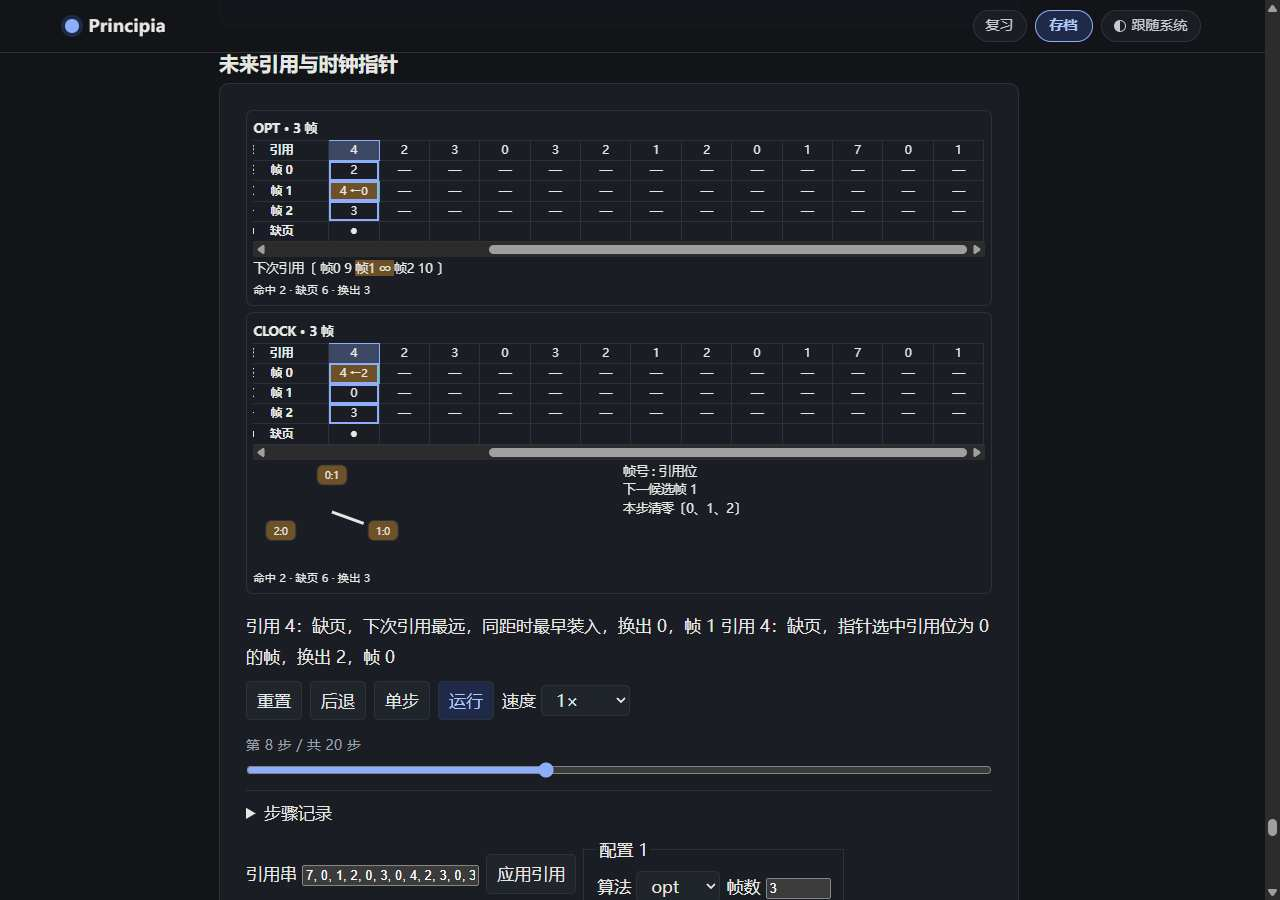
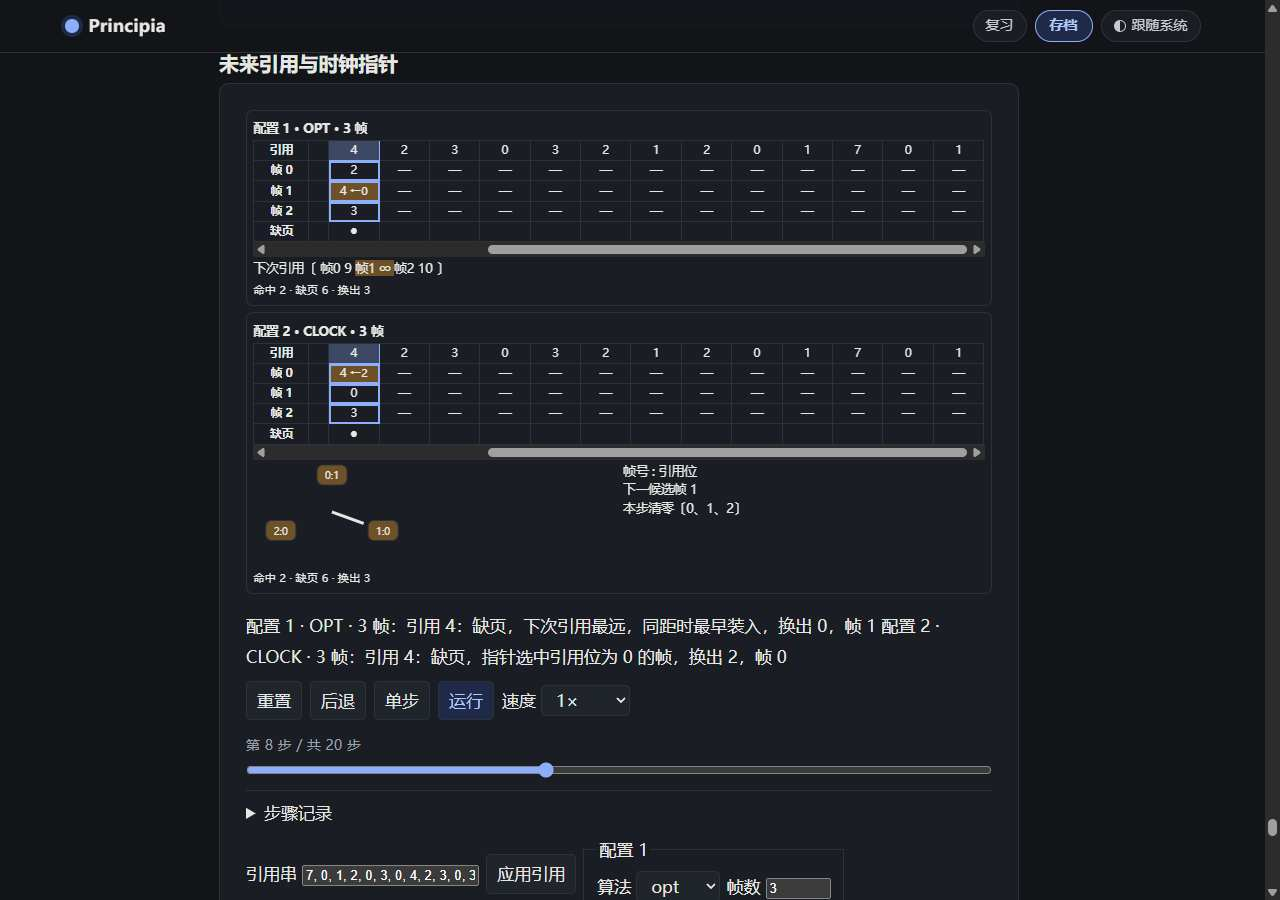
fix(sim): 修正 C7 线程阻塞行、配置说明与时间轴显示

diff --git a/packages/sim/src/Scheduler.tsx b/packages/sim/src/Scheduler.tsx
@@ -7,18 +7,23 @@ import { parseJobs, policies, schedulerMachine, schedulerNames, type Job, type S
 type Params = ScheduleParams & Controls;
 function SchedulePanel({frame: f, jobs, run, horizon}: {frame: ScheduleFrame; jobs: Job[]; run: ScheduleRun; horizon:number}) {
   const cpu = f.ticks.at(-1)?.cpu, levels = run.algorithm === 'mlfq' ? run.quanta ?? [2,4,8] : [0];
-  return <section className="os-panel"><h4>{run.algorithm.toUpperCase()} · t = {f.time}</h4>
+  const currentTick = f.time - 1;
+  const sleeping = f.processes.flatMap((p,i)=>p.wake>=0?[i]:[]);
+  return <section className="os-panel"><h4>{f.title} · {currentTick < 0 ? '初态' : 't = ' + currentTick}</h4>
     <div className="os-schedule-layout"><ScrollBox className="os-axis" step={f.time} label="CPU 与作业的甘特图"><table className="os-timeline" style={{width:(3.5+2.7*horizon)+'rem'}}><colgroup><col style={{width:'3.5rem'}}/>{Array.from({length:horizon},(_,i)=><col key={i}/>)}</colgroup><tbody>
       {['时间','CPU',...jobs.map(j => j.name)].map((label, row) => <tr key={row}><th>{label}</th>{Array.from({length:horizon}, (_, t) => {
         const tick=f.ticks[t];
         if(!tick)return <td key={t}>{row===0?t:'　'}</td>;
-        const state = tick.states[row-2], current = t === f.time - 1;
+        const state = tick.states[row-2], current = t === currentTick;
         return <td key={t} aria-current={current ? 'step' : undefined} data-state={state}
           {...mark(current ? row === 1 || state === '运行' ? 'write' : 'read' : undefined)}>
           {row === 0 ? t : row === 1 ? jobs[tick.cpu]?.name ?? '　' : state}</td>;
       })}</tr>)}</tbody></table></ScrollBox>
-    <div><p>{levels.map((q, level) => <span key={level} {...mark(f.time?'read':undefined)}>{q ? ' L'+level+' (片 '+q+')' : '就绪'}〔{f.ready.filter(i => f.processes[i].level === level).map(i => jobs[i].name + (q ? ' '+f.processes[i].used+'/'+(run.allotments ?? levels)[level] : '')).join(' → ') || '空'}〕</span>)}
-     　I/O〔{f.processes.some(p=>p.wake>=0)?f.processes.map((p,i)=>p.wake>=0&&<span key={i} {...mark(i===cpu?'write':undefined)}> {jobs[i].name} → {p.wake} </span>):'空'}〕</p>
+    <div>{levels.map((q,level)=><p key={level}><span {...mark(f.time?'read':undefined)}>
+      {q?'L'+level+'（时间片 '+q+'）':'就绪'}〔{f.ready.filter(i=>f.processes[i].level===level).map(i=>
+        jobs[i].name+(q?' '+f.processes[i].used+'/'+(run.allotments??levels)[level]:'')).join(' → ')||'空'}〕
+    </span></p>)}
+    <p>I/O〔{sleeping.length?sleeping.map((i,k)=><span key={i} {...mark(i===cpu?'write':undefined)}>{k>0?'，':''}{jobs[i].name} → {f.processes[i].wake}</span>):'空'}〕</p>
     <ScrollBox step={f.time} label="作业指标" className="os-metrics"><table><thead><tr>{['作业','到达','计算','首次','完成','周转','等待','响应',...(run.algorithm==='mlfq'?['级 / 已用额度']:[])].map(k=><th key={k}>{k}</th>)}</tr></thead><tbody>
       {f.processes.map((p,i) => {const j=jobs[i], turn=p.finish-j.arrival;
         return <tr key={i} {...mark(i===cpu?'write':undefined)}>{[j.name,j.arrival,p.cpu,p.first,p.finish,p.finish<0?-1:turn,p.finish<0?-1:turn-p.cpu-p.io,p.first<0?-1:p.first-j.arrival,...(run.algorithm==='mlfq'?['L'+p.level+' / '+p.used]:[])].map((x,k)=><td key={k}>{x===-1?'—':x}</td>)}</tr>;

diff --git a/packages/sim/src/core/scheduler.ts b/packages/sim/src/core/scheduler.ts
@@ -43,12 +43,15 @@ interface Process {
 }
 export interface Tick { cpu: number; states: string[] }
 export interface ScheduleFrame {
-  text: string; time: number; ticks: Tick[]; ready: number[]; processes: Process[];
+  title: string; text: string; time: number; ticks: Tick[]; ready: number[]; processes: Process[];
   completed: number; switches: number; preemptions: number; idle: number;
   waiting: number; response: number; turnaround: number;
 }
-export function* schedule(jobs: Job[], config: ScheduleRun): Generator<ScheduleFrame, void> {
+export function* schedule(jobs: Job[], config: ScheduleRun, prefix = ''): Generator<ScheduleFrame, void> {
   const {algorithm, quantum = 4, quanta = [2, 4, 8], allotments = quanta, boost = 0} = config;
+  const detail = algorithm === 'priority' ? (config.preemptive ? '（抢占）' : '（非抢占）') :
+    algorithm === 'rr' ? '（时间片 ' + quantum + '）' : '';
+  const title = prefix + algorithm.toUpperCase() + detail;
   const mlfq = algorithm === 'mlfq';
   const processes = jobs.map(({bursts}): Process => ({
     part: 0, left: bursts[0], wake: -1, level: 0, used: 0, first: -1, finish: -1,
@@ -59,7 +62,7 @@ export function* schedule(jobs: Job[], config: ScheduleRun): Generator<ScheduleF
   let running = -1, last = -1, slice = 0, completed = 0, switches = 0, preemptions = 0, idle = 0;
   let waiting = 0, response = 0, turnaround = 0;
   function snapshot(text: string): ScheduleFrame {
-    return {text, time: ticks.length, ticks, ready: [...ready], processes: processes.map(p => ({...p})),
+    return {title, text: prefix ? title + '：' + text : text, time: ticks.length, ticks, ready: [...ready], processes: processes.map(p => ({...p})),
       completed, switches, preemptions, idle, waiting, response, turnaround};
   }
   function rank(i: number) {
@@ -89,7 +92,7 @@ export function* schedule(jobs: Job[], config: ScheduleRun): Generator<ScheduleF
       else if (mlfq && slice >= quanta[p.level] || algorithm === 'rr' && slice >= quantum) reason = '用满时间片';
       else if (ready.length && (mlfq || algorithm === 'srtf' || algorithm === 'priority' && config.preemptive)
         && rank(best()) < rank(running)) reason = '让给优先运行的作业';
-      if (reason) { notes.push(jobs[running].name + reason + '，回到队尾'); ready.push(running); running = -1; }
+      if (reason) { notes.push(jobs[running].name + ' ' + reason + '，回到队尾'); ready.push(running); running = -1; }
     }
     if (mlfq && boost && t > 0 && t % boost === 0) {
       ready.sort((a, b) => processes[a].level - processes[b].level);
@@ -135,7 +138,7 @@ export function* schedule(jobs: Job[], config: ScheduleRun): Generator<ScheduleF
   }
 }
 export const schedulerMachine = algorithmMachine(
-  (p: ScheduleParams) => p.runs.map(config => schedule(p.tasks, config)),
+  (p: ScheduleParams) => p.runs.map((config, i) => schedule(p.tasks, config, p.runs.length > 1 ? '配置 ' + (i + 1) + ' · ' : '')),
   f => ({completed: f.completed, switches: f.switches, preemptions: f.preemptions, idle: f.idle,
     turnaround: f.turnaround, waiting: f.waiting, response: f.response}),
 );

diff --git a/packages/sim/src/os.css b/packages/sim/src/os.css
@@ -1,7 +1,7 @@
 .os-stack {display:grid;gap:.4rem;width:100%;min-width:0;color:var(--text)}
 .os-panel {border:1px solid var(--border);border-radius:.45rem;padding:.4rem;min-width:0;background:var(--surface);font-size:.79rem}
 .os-panel {line-height:1.45}
-.os-schedule-layout {display:grid;grid-template-columns:minmax(0,1fr) minmax(0,1.1fr);gap:.45rem}
+.os-schedule-layout {display:grid;grid-template-columns:repeat(2,minmax(0,1fr));gap:.45rem}
 .os-panel .os-schedule-layout .os-scroll {max-height:195px}
 .os-panel .os-axis td {box-sizing:border-box;min-width:2.7rem;width:2.7rem;max-width:2.7rem}
 .os-panel .os-replace-axis td {min-width:3.15rem;width:3.15rem;max-width:3.15rem}
@@ -10,16 +10,18 @@
 .os-panel .os-disk td {white-space:normal;overflow-wrap:anywhere}
 .os-panel .os-disk table {width:100%}
 .os-dir-bits {background:color-mix(in srgb,#619773 45%,var(--surface))}
-.os-editor button[aria-disabled=true] {opacity:.55}
+.os-editor button[aria-disabled=true],.os-panel button[aria-disabled=true] {opacity:.55;cursor:not-allowed}
 @media(max-width:640px) {
-  .os-panel .os-disk,.os-schedule-layout {grid-template-columns:repeat(2,minmax(0,1fr))}
+  .os-panel .os-disk {grid-template-columns:repeat(2,minmax(0,1fr))}
 }
 .os-panel h4,.os-panel p {margin:.15rem 0}
 .os-scroll {min-width:0;overflow:auto;overscroll-behavior:contain;max-height:176px}
 .os-scroll table,.os-panel table {border-collapse:collapse;font-variant-numeric:tabular-nums;font-size:.73rem}
 .os-panel td,.os-panel th {padding:.07rem .25rem;border:1px solid var(--border);white-space:nowrap;text-align:center}
-.os-panel .os-axis table {table-layout:fixed}
-.os-panel .os-axis,.os-panel .os-schedule-layout .os-axis {max-height:none;overflow-y:hidden}
+.os-panel .os-axis table {table-layout:fixed;border-collapse:separate;border-spacing:0;border-top:1px solid var(--border)}
+.os-panel .os-axis :is(th,td) {border-width:0 1px 1px 0}
+.os-panel .os-axis th:first-child {border-left-width:1px}
+.os-panel .os-axis,.os-panel .os-schedule-layout .os-axis {max-height:none;overflow-y:hidden;scroll-padding-left:3.5rem}
 .os-panel .os-metrics td,.os-panel .os-metrics th {padding-inline:.13rem}
 .os-panel .os-code-scroll {max-height:26rem}
 .os-panel .os-code-scroll td,.os-panel .os-code-scroll th {line-height:1.25;padding-block:.055rem}

diff --git a/packages/sim/src/core/page-replacement.ts b/packages/sim/src/core/page-replacement.ts
@@ -6,12 +6,13 @@ export interface ReplacementParams {refs:number[];runs:ReplacementRun[];curve?:b
 export const replacementNames=['step','hits','faults','evictions','done'];
 export interface Column {page:number;slots:(number|null)[];changed:number;out:number|null;hit:boolean}
 export interface ReplacementFrame {
-  text:string;columns:Column[];slots:(number|null)[];loaded:number[];used:number[];future:number[];
+  title:string;text:string;columns:Column[];slots:(number|null)[];loaded:number[];used:number[];future:number[];
   bits:number[];hand:number;cleared:number[];hits:number;faults:number;evictions:number;
 }
-export function* replacePages(refs:number[],r:ReplacementRun):Generator<ReplacementFrame,void>{
+export function* replacePages(refs:number[],r:ReplacementRun,prefix=''):Generator<ReplacementFrame,void>{
   const empty=Array<number>(r.frames).fill(0);
-  let f:ReplacementFrame={text:'页框为空',columns:[],slots:empty.map(()=>null),loaded:[...empty],used:[...empty],future:empty.map(()=>Infinity),
+  const title=prefix+r.algorithm.toUpperCase()+' · '+r.frames+' 帧';
+  let f:ReplacementFrame={title,text:'页框为空',columns:[],slots:empty.map(()=>null),loaded:[...empty],used:[...empty],future:empty.map(()=>Infinity),
     bits:[...empty],hand:0,cleared:[],hits:0,faults:0,evictions:0};
   yield f;
   for(const [t,page] of refs.entries()){
@@ -45,10 +46,10 @@ export function* replacePages(refs:number[],r:ReplacementRun):Generator<Replacem
     f.used[at]=t;f.bits[at]=1;
     f.future=f.slots.map(p=>{const i=p===null?-1:refs.indexOf(p,t+1);return i<0?Infinity:i;});
     f.columns=[...f.columns,{page,slots:f.slots,changed:at,out,hit}];
-    f.text='引用 '+page+'：'+reason+'，帧 '+at;yield f;
+    f.text=(prefix?title+'：':'')+'引用 '+page+'：'+reason+'，帧 '+at;yield f;
   }
 }
-export const replacementMachine=algorithmMachine((p:ReplacementParams)=>p.runs.map(r=>replacePages(p.refs,r)),
+export const replacementMachine=algorithmMachine((p:ReplacementParams)=>p.runs.map((r,i)=>replacePages(p.refs,r,p.runs.length>1?'配置 '+(i+1)+' · ':'')),
   f=>({hits:f.hits,faults:f.faults,evictions:f.evictions}));
 export function faultCurve(refs:number[],algorithm:ReplacementRun['algorithm']){
   return Array.from({length:8},(_,i)=>{

diff --git a/packages/sim/src/core/filesystem.test.ts b/packages/sim/src/core/filesystem.test.ts
@@ -5,8 +5,8 @@ function inputs(ops:string):FsParams {
   const {errors,commands}=parseFsOps(ops.replaceAll(';','\n'));expect(errors).toEqual([]);
   return {ops,commands,inodes:8,blocks:16,direct:4,indirect:4,entries:4,granularity:'io'};
 }
-function run(ops:string){
-  let s=m.init(inputs(ops),0);const states:FsState[]=[];
+function run(ops:string,layout:Partial<Pick<FsParams,'entries'|'direct'>>={}){
+  let s=m.init({...inputs(ops),...layout},0);const states:FsState[]=[];
   while(!m.atEnd!(s)){s=m.step(s,'一个操作').state;states.push(s);}
   return states;
 }
@@ -36,6 +36,26 @@ it('目录的第二块、非空目录、耗尽 inode',()=>{
     'i0 b0 i1 b1 imap / imap b1 i1 i4','i0 b0 i1 b1 imap bmap / imap bmap b3 i1 i5',
     'i0 b0 i1 b1 b3 imap / imap b3 i1 i6','i0 b0 i1 b1 b3 imap bmap / imap bmap b3 b4 i1 i7','i0 b0 imap / ']);
   expect(s[6].disk.inode[1]?.direct).toEqual([1,3]);expect(s[8].disk.imap.every(Boolean)).toBe(true);
+});
+it('目录失败时只读到足以判定的那一步',()=>{
+  const full=run('mkdir /a;touch /b;mkdir /b',{direct:1,entries:3});
+  for(const failed of full.slice(1)){
+    expect(list(failed)).toBe('i0 b0 / ');
+    expect(failed.disk).toEqual(full[0].disk);
+    expect(failed.reason).toBe('父目录的直接指针已用完');
+  }
+  const s=run('mkdir /d;touch /d/a;touch /d/b;rmdir /d;rm /d/a;rmdir /d;read /d',{entries:3});
+  expect(s[2].disk.inode[1]?.direct).toEqual([1,2]);
+  expect([s[3],s[5],s[6]].map(list)).toEqual(['i0 b0 i1 b1 / ','i0 b0 i1 b1 b2 / ','i0 b0 i1 / ']);
+  expect([s[3],s[5],s[6]].map(f=>f.reason)).toEqual(['目录不空','目录不空','操作需要普通文件']);
+});
+it('路径类型不对时在目标 inode 停下，硬链接先检查源',()=>{
+  const s=run('mkdir /d;touch /f;write /f 1;write /d 1;rm /d;ln /d /f/x;rmdir /f;read /');
+  expect(s.slice(3).map(list)).toEqual(['i0 b0 i1 / ','i0 b0 i1 / ','i0 b0 i1 / ','i0 b0 i2 / ','i0 / ']);
+  for(const failed of s.slice(3)){
+    expect(failed.reason).toBeTruthy();
+    expect(failed.disk).toEqual(s[2].disk);
+  }
 });
 // 从根按目录项与指针重建可达集合和入链计数，不读取机器的观测量或内部规划结果。
 function audit(d:Disk){

diff --git a/packages/sim/src/core/threads.test.ts b/packages/sim/src/core/threads.test.ts
@@ -1,5 +1,5 @@
 import { expect, it } from 'vitest';
-import { assembleThread, threadMachine as m, type ThreadParams } from './threads';
+import { assembleThread, canRun, threadMachine as m, type ThreadParams } from './threads';
 import { mulberry32 } from './rng';
 
 const inc='load r0, counter\nadd r0, 1\nstore counter, r0', locked='lock m\n'+inc+'\nunlock m';
@@ -24,11 +24,36 @@ it('丢失更新、阻塞移交及反序加锁',()=>{
   expect([l.turns.map(t=>t.name).join(''),l.shared.counter,l.switches]).toEqual(['ABAAAABBBB',2n,3]);
   const a='lock m1\nlock m2\nunlock m2\nunlock m1',b='lock m2\nlock m1\nunlock m1\nunlock m2';
   const dead=run(params(a,b));
+  expect(dead.ts.map(t=>t.pc)).toEqual([1,1]);
   expect(dead.turns.map(t=>t.name)).toEqual(['A','B','A','B']);
   expect([dead.deadlock,dead.ts.map(t=>t.wait)]).toEqual([true,['m2','m1']]);
   expect(run(params(a,b,'rr',2)).turns.length).toBe(8);
   expect(run(params('lock m\nlock m',undefined))).toMatchObject({deadlock:true,turns:[{},{}]});
   expect(run(params('unlock m',undefined))).toMatchObject({error:true,turns:[{}]});
+});
+it.each([
+  ['lock m\nunlock m','lock m','m'],
+  ['set r0, 0\nsignal full','wait full','full'],
+])('%s 移交资源时才让等待方前进一条指令', (a,wait,resource)=>{
+  for(const tail of ['', '\nset r0, 2']){
+    const initial=m.init(params(a,wait+tail),0);
+    const blocked=m.step(m.step(initial).state).state;
+    expect(blocked.ts[1]).toMatchObject({pc:0,wait:resource});
+    expect(canRun(blocked,1)).toBe(false);
+    expect(m.edit!(blocked,1)).toBe(blocked);
+    const awake=m.step(blocked).state;
+    expect(awake.ts[1]).toMatchObject({pc:1,wait:null});
+    expect(awake.writes).toContain('state:1');
+    expect(awake.turns).toHaveLength(3);
+    expect(awake.done).toBe(!tail);
+    if(tail){
+      const end=m.step(awake).state;
+      expect(end.turns.at(-1)).toEqual({name:'B',pc:1});
+      expect(end.ts[1].regs[0]).toBe(2n);
+    }
+    expect(blocked.ts[1]).toMatchObject({pc:0,wait:resource});
+    expect(m.step(blocked).state).toEqual(awake);
+  }
 });
 it('带标号循环、种子和自旋锁',()=>{
   const a=loop(inc);

diff --git a/packages/sim/src/Threads.tsx b/packages/sim/src/Threads.tsx
@@ -31,9 +31,12 @@ export default function Threads({params:original,labels}:AnimProps<Params>) {
   </div>}>
     <div className="os-stack"><section className="os-panel"><div className="os-cols">{p.programs.map((prog,i)=>{
       const t=s.ts[i],last=s.turns.at(-1);
-      return <div key={prog.name}><h4>{prog.name} · <span {...touch('state:'+i)}>{t.wait!==null?'等待 '+t.wait:canRun(s,i)?'就绪':'完成'}</span></h4>
-        <ScrollBox className="os-code-scroll" step={step} label={prog.name+' 指令'}><table><tbody>{prog.code.map((ins,pc)=><tr key={pc} aria-current={pc===t.pc?'step':undefined}
-          {...mark(last?.name===prog.name&&last.pc===pc?'read':pc===t.pc&&s.last===i?'write':undefined)}><th>{pc}</th><td>{ins.source}</td></tr>)}</tbody></table></ScrollBox>
+      const failed=s.error&&s.last===i;
+      const currentPc=failed?last?.pc:t.pc;
+      const moved=s.last===i||s.writes.includes('state:'+i);
+      return <div key={prog.name}><h4>{prog.name} · <span {...touch('state:'+i)}>{failed?'出错':t.wait!==null?'等待 '+t.wait:canRun(s,i)?'就绪':'完成'}</span></h4>
+        <ScrollBox className="os-code-scroll" step={step} label={prog.name+' 指令'}><table><tbody>{prog.code.map((ins,pc)=><tr key={pc} aria-current={pc===currentPc?'step':undefined}
+          {...mark(last?.name===prog.name&&last.pc===pc?'read':pc===currentPc&&moved?'write':undefined)}><th>{pc}</th><td>{ins.source}</td></tr>)}</tbody></table></ScrollBox>
         <p>{t.regs.map((v,r)=><span key={r} {...touch(i+':r'+r)}> r{r}={String(v)} </span>)}</p>
         {p.editable&&<button aria-disabled={s.done||!canRun(s,i)} onClick={()=>{if(!s.done&&canRun(s,i)){player.edit(i);player.step();}}}>{prog.name} 走一步</button>}</div>;
     })}</div><h4>共享状态</h4><p>{Object.entries(s.shared).map(([k,v])=><span key={k} {...touch(k)}>{k} = {String(v)}　</span>)}</p>

diff --git a/packages/sim/src/StructurePlayer.tsx b/packages/sim/src/StructurePlayer.tsx
@@ -43,7 +43,8 @@ export function useStepScroll(note:Note, selected?:number, followGroup=false) {
       return;
     }
     const r=cell.getBoundingClientRect(), bounds=box.getBoundingClientRect();
-    const left=bounds.left+box.clientLeft, top=bounds.top+box.clientTop;
+    const inset=parseFloat(getComputedStyle(box).scrollPaddingLeft)||0;
+    const left=bounds.left+box.clientLeft+inset, width=box.clientWidth-inset, top=bounds.top+box.clientTop;
     let x0=r.left,x1=r.right,y0=r.top,y1=r.bottom;
     if(followGroup && !picked){
       const touched=box.querySelectorAll('[data-touch],[data-block-change]');
@@ -51,11 +52,11 @@ export function useStepScroll(note:Note, selected?:number, followGroup=false) {
         const b=other.getBoundingClientRect();
         x0=Math.min(x0,b.left);x1=Math.max(x1,b.right);y0=Math.min(y0,b.top);y1=Math.max(y1,b.bottom);
       }
-      if(x1-x0>box.clientWidth){x0=r.left;x1=r.right;}
+      if(x1-x0>width){x0=r.left;x1=r.right;}
       if(y1-y0>box.clientHeight){y0=r.top;y1=r.bottom;}
     }
     if(x0<left)box.scrollLeft+=Math.floor(x0-left);
-    else if(x1>left+box.clientWidth)box.scrollLeft+=Math.ceil(x1-left-box.clientWidth);
+    else if(x1>left+width)box.scrollLeft+=Math.ceil(x1-left-width);
     if(y0<top)box.scrollTop+=Math.floor(y0-top);
     else if(y1>top+box.clientHeight)box.scrollTop+=Math.ceil(y1-top-box.clientHeight);
   },[note,selected,followGroup]);

diff --git a/packages/sim/src/PageReplacement.tsx b/packages/sim/src/PageReplacement.tsx
@@ -20,7 +20,7 @@ function Panel({run,f,refs}:{run:ReplacementRun;f:ReplacementFrame;refs:number[]
   const t=f.columns.length-1, order=f.slots.flatMap((p,i)=>p===null?[]:[i]);
   if(run.algorithm==='fifo')order.sort((a,b)=>f.loaded[a]-f.loaded[b]);
   if(run.algorithm==='lru')order.sort((a,b)=>f.used[b]-f.used[a]);
-  return <section className="os-panel"><h4>{run.algorithm.toUpperCase()} · {run.frames} 帧</h4>
+  return <section className="os-panel"><h4>{f.title}</h4>
     <ScrollBox className="os-axis os-replace-axis" step={t+1} label="引用与页框"><table className="os-timeline" style={{width:(3.5+3.15*refs.length)+'rem'}}><colgroup><col style={{width:'3.5rem'}}/>{refs.map((_,i)=><col key={i}/>)}</colgroup><thead><tr><th>引用</th>{refs.map((page,i)=><td key={i} {...mark(i===t?'read':undefined)}>{page}</td>)}</tr></thead><tbody>
       {f.slots.map((_,frame)=><tr key={frame}><th>帧 {frame}</th>{refs.map((_,i)=>{
         const c=f.columns[i];return <td key={i} aria-current={i===t?'step':undefined} {...mark(i===t&&c?.changed===frame?c.hit?'read':'write':undefined)}>

diff --git a/packages/sim/src/core/threads.ts b/packages/sim/src/core/threads.ts
@@ -96,11 +96,15 @@ function execute(s:ThreadState):ThreadState {
   const rr=(r:string)=>{next.reads.push(i+':'+r);return t.regs[reg(r)];};
   const wr=(r:string,v:bigint)=>{next.writes.push(i+':'+r);t.regs[reg(r)]=v;};
   const block=(name:string)=>{
+    t.pc=pc;
     t.wait=name;next.queues[name]=[...next.queues[name],i];next.writes.push(name,'state:'+i);
   };
   const wake=(name:string)=>{
     const [id,...rest]=next.queues[name];
-    if(id!==undefined){ts[id].wait=null;next.queues[name]=rest;next.writes.push('state:'+id);}
+    if(id!==undefined){
+      ts[id].pc++;
+      ts[id].wait=null;next.queues[name]=rest;next.writes.push('state:'+id);
+    }
     next.writes.push(name);return id;
   };
   next.turns=[...s.turns,{name:prog.name,pc}];

diff --git a/docs/reviews/cs-c7.md b/docs/reviews/cs-c7.md
@@ -1,0 +1,77 @@
+# 计算机台阶 C7 审查报告：作业调度、线程、页表、页面置换、文件系统
+
+范围：分支 `cs/c7` 相对起点 `167504f` 的五个提交 `8a3293f`、`c0fffa2`、`5190d78`、`eb82784`、`8c2763a`，36 个文件；对照 `docs/cs-plan.md`「C7」、附录 B、C 和汇报 `docs/reviews/cs-c7-report.md`。
+
+**重要 1 条，小问题 3 条，原有问题 0 条；改了没报的 3 处（两处并进小问题，一处不用改）。**
+
+五个内核和我写方案时的参照在随机输入上逐步一致，方案的验收数字经小节编译器复算全对；两种窗口下 20 个演示每一步都量过，一屏、高亮格在框里、不溢出、离屏暂停都成立；重置和各种编辑都保留焦点、速度和已勾的目标。要修的是阻塞线程的画面，外加说明行、plan.md 和几处画面细节。
+
+汇报第 6 节说的两组调度输入（A 100，以及 11 段的 I/O 作业）超出了方案自己定的内容上限，这是方案的问题；你保留原始输入用内核测试验掉，做法对，不用改。我合并时在 main 上把方案里这两条标成「只在内核里验」。
+
+## 跑过的检查
+
+在 `D:\Work\Principia-cs` 里跑。
+
+| 检查 | 结果 |
+| --- | --- |
+| `npm run content` | 0 个错误、0 个警告 |
+| `npm run typecheck` | 通过 |
+| `npm test` | 60 个文件、630 条全过（单独跑，131 秒） |
+| `npm run verify` | 430 节全部一致 |
+| `npm run listings` | 通过 0、失败 0、跳过 0 |
+| `npm run build` | 通过。首屏 `index-*.js` 1,044,328 字节加 `jsx-runtime-*.js` 8,911 字节，合计 1,053,239，和起点相同。按需加载：`Scheduler` 7,864、`Threads` 8,144、`PageTable` 7,788、`PageReplacement` 7,206、`Filesystem` 11,319，公用的 `OsControls` 1,069 和 CSS 2,721 |
+| 独立复算：验收数字 | 把方案验收里的输入写成小节 YAML，过真的小节编译器（`parseLessonMarkdown` + `transformBody`），用编出来的参数跑 GPT 的五个 machine，共 48 条：调度的九组（甘特图分段、等待、响应、周转平均、切换、抢占、空闲、MLFQ 的三组和第 5 拍提升的次序），A 100 和 11 段那两组确认编译器拒收、改用内核验；线程的七组（交错、counter、切换、死锁时的步数和「A 等 m2（B 持有），B 等 m1（A 持有）」、seed 7 和 10、生产者-消费者、自旋锁、重入和错误解锁）；页表的三组（命中模式、物理地址 52、访存 13 / 20 / 14 / 24、缺页在目录第 4 项、页 9 的修改位、64 和 32 项）；置换的四种算法三帧、四帧、时钟每次缺页后的帧内容、贝拉迪曲线；文件系统三组每个操作的读写次数和顺序、最后的位图、两种粒度的步数。画廊 6 + 6 + 2 + 3 + 3 个演示都编译无诊断。全部一致 |
+| 独立差分 | 拿我写方案时的参照（`c7-ref.mjs`）和 GPT 的内核对拍。调度：6,000 组随机作业（1–5 个、1–5 段，六种算法，时间片、抢占、2–4 级时间片、额度、提升都随机），177,716 拍，每拍的 CPU、每个作业每拍的状态、切换、抢占、空闲、三个和、首次运行和完成时刻。线程：6,000 组（七成是锁、信号量、TAS、循环拼出的程序，三成是带跳转的随机程序；rr、random、列表三种调度），2,330,099 步，每步是谁、是否阻塞、报错、死锁、最后的共享变量、寄存器、信号量、切换。页表：6,000 组随机配置（一级、两级，dirBits 随机，TLB 0–4 项，LRU、FIFO，夹 flush），77,564 次访问，每次的命中/查表/缺页/写保护和物理地址、计数、最后的 TLB、访问位和修改位。置换：8,000 组 × 四种算法，163,937 个引用，每一列的帧、换出的帧、计数、时钟指针、1–8 帧曲线。这四个全部一致。文件系统：4,000 组随机操作序列、50,236 个操作，比较每个操作有序的读、写清单和成败：只在方案没写死的四处不同（见小问题 2 和「改了没报的」）；把我的参照按你的四个选择改过以后全部一致 |
+| 构建检查 | 你用真的小节编译器写了 `compiler/c7.test.ts`。我另跑 90 例，覆盖方案列的每一种：作业行写错、重名、到达 51、段长 0 和 31、偶数段、11 段、缺优先级、9 个作业、`runs` 空或三种、算法名、五种参数写错地方、`quanta` 1 级和 5 级、`allotments` 长度和下限（含没写 `quanta` 时按默认三级比）、`boost: 1`、`jobs` 写成带引号的一行；未知指令、未声明的变量、锁、信号量、`r4`、未定义和重复的标号、4 个线程、25 条指令、`quantum` 和 `seed` 写错调度、列表里的 C、共享变量和信号量、观测量、寄存器、锁重名、程序写成带引号的一行；页大小 12、页号 11 位、512 个页框、映射行写错、页号页框越界、页号重复、访问行写错和越界、`dirBits` 写在一级上、太大、为 0，没有 TLB 写 `tlbPolicy`、41 行访问、`table` 带引号；页号 100、41 个引用、三种配置、算法名、9 帧；操作写错、相对路径、`..`、大写、9 个字符、5 级、写 0 块和 21 块、`inodes: 33`、`entries: 9`、31 个操作，运行时的失败不报构建错误；四个组件的未知观测量和 `sliders`。行号全对 |
+| 浏览器（进度写临时目录的服务，端口 3160） | 浏览器面板没显示，用无界面 Chrome：768 × 1000 亮色、1280 × 900 暗色，都开减少动态效果，把 20 个演示从第 0 步单步到最后（每种窗口 594 个状态）。每个状态检查：主视图、说明、「单步」都在视口里，「单步」底边最靠下 753、756 像素；每个滚动框里所有带读写高亮的格子都完整在框内（扣掉固定的首列），两种窗口都是 0 格被裁；页面不横向溢出；没有脚本错误，也没有 GET 以外的请求。交互在 1280 下用真的鼠标、按键测：先来先服务演示选 4×、单步到目标打勾、点「重置」，焦点留在「重置」，4× 和勾都在，回到第 0 步；配置 2 的算法框按 ↓ 换成 srtf，焦点留在框里；作业表打进两行再点「应用作业」，焦点留在按钮上；时间片框打 12，回车前单步不受影响，回车后 P1 连跑 12 拍、焦点还在框里，再打 7 后点别处也生效；丢失更新演示到目标后重置，勾和速度都在；第 0 步点「B 走一步」再单步两次得 B A B（手挑不占列表项），焦点留在按钮上；顺序框打全角「B，B，A」应用后跑完得 B B A B A A、counter 1；调度框按 ↑ 换成随机，出现 seed 框；页表的 TLB 框打 0 回车，替换方式框变灰，跑完访存 20；贝拉迪演示配置 1 的帧数打 5 回车，缺页 5；文件系统粒度框按 ↓ 换成「一个操作」，9 步做完 9 个操作，接着加 `touch /x`、`write /x 2` 后再走两步做完，操作中途点「从这里添加操作」不起作用。先来先服务 4× 运行到第 8 步时滚出屏幕，1.5 秒后仍是 8，滚回来接着走。最大的作业表（8 个作业各 9 段、每段 30）共 1,204 步，走到末尾时甘特图 12,030 格，单步一次 83–113 毫秒，4× 时（每步 125 毫秒）还跟得上。看过 6 张整屏截图（两种窗口都有）和 7 处放大图，覆盖 11 个演示 |
+
+## 重要
+
+**1. 被 lock、wait 挡住的线程，当前行标在了下一条上。**　`packages/sim/src/core/threads.ts:94` 取指令时先 `t.pc++`，阻塞（`:98-100`）不退回；`Threads.tsx:35` 用 `pc===t.pc` 画当前行的外框，`:36` 还把这一行涂成写色。于是阻塞的线程看起来停在挡住它的那条指令的下一条。实测：
+
+- 反序加锁演示第 4 步（死锁）：A 写着「等待 m2」，外框却框在 `2 unlock m2` 上；B 写着「等待 m1」，外框和写色落在 `2 unlock m1` 上。画面像是两个线程都已经拿到第二把锁、正要解锁，和这个演示要讲的「各等对方持有的锁」正好相反。
+- 互斥锁演示第 2 步：B 被 `lock m` 挡住，外框和写色在 `1 load r0, counter` 上。生产者-消费者里被 `wait` 挡住时走的是同一段代码。
+
+附录 C 写的是交接以后「它醒来时已经过了 lock 这条」，所以等待期间当前指令应该是那条 `lock`/`wait`，被唤醒的那一步再移到下一条。内核怎么记 pc 你定，画面上要对：阻塞时外框落在挡住它的那一条上，下一条不要涂写色。
+
+同一处还有：不能走的线程（阻塞、已完成、死锁或整段做完以后），「X 走一步」只加了 `aria-disabled`（`Threads.tsx:38`），变灰的样式只写给了 `.os-editor` 里的按钮（`os.css:13`），这几个按钮在 `.os-cols` 里，看起来和能点的一样，点了没反应。死锁那一步两个「走一步」都是这样。给它们也加上不可点的样子。
+
+## 小问题
+
+**1. 调度和置换的说明行和面板对不上。**
+
+- 两种配置并排时，说明行把两段话直接接在一起，不说哪段是哪种配置。如时钟演示第 12 步「引用 3：命中，帧 2 引用 3：缺页，指针选中引用位为 0 的帧，换出 4，帧 0」（前半是 OPT，后半是时钟）；先来先服务演示第 1 步两段都是「t = 0：P1 到达，P2 到达，P3 到达」，只有最后的「P1 运行」「P2 运行」不同；贝拉迪演示两边都是 FIFO，只能靠帧数区分。C6 的 sort、grid-search 在每段前面加了算法名（`sort.ts:27`、`grid-search.ts:33`），`scheduler.ts:134`、`page-replacement.ts:48` 没有。六个双配置的演示都受影响。并排时给每段加上配置名，帧数不同时带上帧数。
+- 调度面板标题的 t 比高亮的那一列和说明都多 1：第 10 步标题是「FCFS · t = 10」，外框框着第 9 列，说明是「t = 9：P1 运行」（`Scheduler.tsx:10` 显示的 `f.time` 是已经走完的拍数）。标题、高亮列和说明用同一个 t；要保留「现在是 10」，就照方案在第 9 列右边画那条竖线。
+
+**2. plan.md 附录 C 的文件系统少写了三条会改变读次数的规则，汇报里也没提。**　代码的做法都合理，问题是写内容的人照 plan.md 手算会算错：
+
+- 父目录没有空格、直接指针也用完时，在分配 inode 之前就失败（`filesystem.ts:100` 的检查在 `:101` 分配 inode 之前），不读 inode 位图。`direct: 1, entries: 3` 时 `mkdir /a` 之后 `touch /b` 读 inode 0、块 0 两次就失败；照 plan.md「新建文件、目录时先分配 inode，再分配块」会算成 3 次（我的参照就是这么算的）。
+- `rmdir` 按顺序读目标目录的块，读到第一块里有别的目录项就停（`:126-128`）。`entries: 3` 时 /d 有两块、第一块不空，`rmdir /d` 读 4 次就失败；照「先读要删的目录的块」会算成 5 次。
+- `read` 一个目录：读完它的 inode 就失败（`:156`），一块也不读。plan.md 只写了「read 读普通文件」，看不出是失败、读几次。
+
+把这三条写进 plan.md 附录 C 文件系统那一行。
+
+**3. 几处画面细节。**
+
+- 甘特图和置换表横向卷动以后，固定的首列左缘露出被卷到底下的格子的半个字：每个作业行、帧行的名字左边一串像「⋮」的碎片，两种窗口都有。这两张表是 `border-collapse: collapse`（`os.css:19`），带固定列的表一般改成 `separate`、`border-spacing: 0` 就好。
+- MLFQ 的各级队列和 I/O 挤在一个段落里折行（`Scheduler.tsx:20-21`）：768 宽时「I/O〔 B → 9」和「〕」被折成两行。方案写的是每级一行。
+- 两句说明的名字后面少了空格：「L让给优先运行的作业，回到队尾」「A用完本级额度，回到队尾」（`scheduler.ts:92` 拼接时直接接上 `reason`），别处都是「P1 运行」这样带空格。
+
+## 原有问题
+
+无。
+
+## 改了没报的
+
+- 文件系统的三条读法（父目录满时先于 inode 分配失败、`rmdir` 读到第一块非空就停、`read` 目录在读完 inode 后失败）。汇报第 4 节只写了「read 面向普通文件」。并进小问题 2。
+- MLFQ 的就绪队列没有按方案每级一行。并进小问题 3。
+- 当前时刻画成了外框框住的一列，不是方案写的竖线。外框一样能看清，不用改；只是和标题的 t 要对上，见小问题 1。
+
+## 修订说明
+
+1. **重要 1 · 线程停在哪里。** 线程等待锁或信号量时，程序计数器留在发起等待的指令上。释放者直接移交锁或许可的那一步才推进等待方，既不重跑指令，也不多算一步。互斥锁演示第 2 步，B 停在 `lock m`，第 6 步交接后才指向 `load`。生产者–消费者演示中，B 停在 `wait full`，A 发出 `signal full` 后才指向下一条。回归用例还覆盖等待发生在最后一条指令、回看等待快照、两线程死锁。错误解锁的画面也停在出错行。阻塞、完成或整个模拟停止时，线程按钮变灰且保留焦点。反序加锁演示第 4 步，A、B 分别框住 `lock m2`、`lock m1`，在两个按钮上按空格和回车，步号都仍是 4。[死锁画面](cs-c7/review-deadlock.jpg)
+2. **小问题 1 · 并排说明与拍号。** 检查了 C7 的全部六个双配置演示。每段说明和对应面板共用配置序号和算法名，优先级标明能否抢占，置换标明帧数，两边同为 FIFO 也能区分。甘特图保留整列外框，初始标题显示「初态」，第 10 步标题、外框和说明均为 `t = 9`。外框的约定已补入正文和原汇报。
+3. **小问题 2 · 失败操作读到哪一步。** 附录 C 和原汇报第 4 节已补齐三条规则。用逐项读写清单验证：父目录满且不能扩展时只读 inode 0、块 0；两块目录中，`rmdir` 在首块找到子项共读 4 次，子项只在第二块时读 5 次；`read /d` 读到目录 inode 为止，共 3 次。这些操作均为零写入。排查同类分支时也补测了 `write`、`rm`、`ln`、`rmdir` 的目标类型检查和根路径，文件系统运行规则沿用原实现。
+4. **小问题 3 · 固定首列、队列与空格。** 甘特图和置换表都使用分离边框和不透明的固定首列。两种窗口各测两张表，在两个横向位置遮去后方数据文字，首列截图逐像素相同；遮去首列自身文字后能检出差异。回跳检查还发现首列会盖住刚选中的格子，自动滚动现已预留首列宽度，甘特图与右侧指标等分面板。MLFQ 的每级队列和 I/O 各占一行，768 像素宽第 6 步能完整读到 `I/O〔B → 9〕`。回队尾的三种原因（抢占、额度用尽、时间片用尽）统一在作业名后留一个空格。
+
+在端口 3150 的生产画廊使用独立临时进度目录。Chrome 的 768 × 1000 亮色和 1280 × 900 暗色各遍历 20 个演示、594 个状态，扣除固定首列后高亮格裁切 0 处，双配置对应列偏差不超过 2 像素。主视图顶边约 y=110，单步按钮底边分别最高到 y=792、762。离屏暂停、回到画面继续、五类组件重置后的焦点、速度和已勾目标均通过。首屏 JS 合计 1,053,239 字节。类型检查、生产构建通过，全套 60 个测试文件、634 个用例通过。检查后 `git status progress/` 干净。

diff --git a/docs/plan.md b/docs/plan.md
@@ -2790,7 +2790,7 @@ ops: |
 
 **dp-table**　`problem: lcs` 或 `edit-distance`，给 `a: ABCBDAB`、`b: BDCABA`；各 1–12 个字母，lcs 还可用数字（纯数字字符串在 YAML 中加引号）。`problem: knapsack` 给 `capacity: 7`（1–20）及 `items: [[1,1],[3,4],[4,5],[5,7]]`（1–8 个 [重,值]，重 1–20、值 1–99）。默认允许改输入。每步填一格或回溯一次，箭头指向依赖，加粗实际采用的分支，回溯保留路径与已恢复的答案。观测量 `step filled result traced done`，末格填完之前 result 为 −1。
 
-**scheduler**　`jobs` 用 `|` 逐行写「名字 到达 计算+I/O+计算 [优先级]」。1–8 个作业，名字 1–4 个英文字符或数字，到达 0–50，每行 1–9 段且为奇数，每段 1–30 拍。`runs: [{algorithm: fcfs}, {algorithm: sjf}]` 可写一两种。另有 srtf、rr（`quantum` 1–20，默认 4）、priority（每行必写优先级 0–9，`preemptive` 默认 false）、mlfq（`quanta` 2–4 级，各 1–20，默认 `[2,4,8]`，`allotments` 默认同时间片，各级不少于时间片且至多 100，`boost` 为 0 或 2–200，默认 0）。两张时间轴上下对齐。每拍显示 CPU、各作业状态、队列及指标。观测量 `step completed switches preemptions idle turnaround waiting response done` 取第一种配置，三个时间指标是已完成作业的和。`editable` 默认 true，允许改作业与调度设置，重置回到小节参数，保留速度和已勾目标。
+**scheduler**　`jobs` 用 `|` 逐行写「名字 到达 计算+I/O+计算 [优先级]」。1–8 个作业，名字 1–4 个英文字符或数字，到达 0–50，每行 1–9 段且为奇数，每段 1–30 拍。`runs: [{algorithm: fcfs}, {algorithm: sjf}]` 可写一两种。另有 srtf、rr（`quantum` 1–20，默认 4）、priority（每行必写优先级 0–9，`preemptive` 默认 false）、mlfq（`quanta` 2–4 级，各 1–20，默认 `[2,4,8]`，`allotments` 默认同时间片，各级不少于时间片且至多 100，`boost` 为 0 或 2–200，默认 0）。两张时间轴上下对齐。当前列用外框标出，标题和本步说明的 t 都取该列的起始时刻。每拍显示 CPU、各作业状态、队列及指标。观测量 `step completed switches preemptions idle turnaround waiting response done` 取第一种配置，三个时间指标是已完成作业的和。`editable` 默认 true，允许改作业与调度设置，重置回到小节参数，保留速度和已勾目标。
 
 **threads**　`shared: {counter: 0}`（至多 6 个，−99 至 99），`locks: [m]`（至多 4 把），`semaphores: {empty: 2, full: 0}`（至多 4 个，0–9）。后两项可省略。资源名为 1–12 个字母、数字或下划线，以字母开头，彼此以及与寄存器、观测量不能重名。`threads` 是 1–3 个名字（1–4 个字母或数字）到 `|` 程序的映射，各 1–24 条指令，支持 `L:` 和 `;` 行尾注释。`schedule: rr` 可配 `quantum: 1`（1–10），`random` 必须配整数 seed，也可写最多 100 项的交错列表。每步显示指令、寄存器、共享值、等待队列和时间线。默认可改调度方式、时间片、seed 或线程顺序，或在当前步手选一个可运行的线程，再按原规则往下算。观测量 `step switches blocked finished deadlock error done`，再加各共享变量和信号量。
 
@@ -2845,7 +2845,7 @@ pauses:
 | 线程 | 每个线程有 r0–r3 四个寄存器，初值 0。寄存器和共享变量都是整数。指令一条一步，每条都是原子的：`load rX, 变量`、`store 变量, rX`、`set rX, 常数`、`add rX, 常数或 rY`、`sub rX, 常数或 rY`、`jmp 标号`、`beq rX, 常数, 标号`、`bne rX, 常数, 标号`、`tas rX, 变量`（rX ← 变量，变量 ← 1）、`lock m`、`unlock m`、`wait s`、`signal s`。程序走过最后一条就完成。锁：空着就拿到。被占着（包括被自己占着）就阻塞、排进这把锁的等待队列，这一步照算。`unlock` 时有人等就直接交给队头（它醒来时已经过了 `lock` 这条），没人等就空出。解锁不是自己持有的锁报错停下。信号量：`wait` 时值大于 0 就减一，否则阻塞排队。`signal` 时有人等就唤醒队头（它已经过了 `wait`），否则加一。调度：rr 按线程的书写顺序轮转，一个线程走满时间片、阻塞或完成就换下一个可运行的（只剩它自己时接着走，算新的时间片）。random 每步把可运行的线程按书写顺序排好，取下标 ⌊r × 个数⌋ 的那个（从 0 数），r 来自 mulberry32(seed)。列表按顺序取，轮到的线程阻塞或已完成就跳过这一项，列表用完后按时间片 1 轮转，从最后走的那个线程的下一个开始。读者手动挑的一步不占列表的项、不用随机数，之后的调度从这个线程接着算（rr 里它的时间片从这一步数起）。没有可运行的线程而还有没完成的：死锁，停下（不另算一步）。最多走 1000 步，到了就停下并说明。切换：相邻两步不是同一个线程就算一次。指令和分支对整数精确运算。goals、pauses 沿用公共数值表达式，超过安全整数范围的共享值不适合用作精确等式条件。 |
 | 页表 | 页号 = 地址 ÷ 页大小（取整），偏移 = 地址 mod 页大小。两级时页号的高 `dirBits` 位是页目录号、其余是页表号。页目录项在它管的范围里有任何映射时才有效（没有映射的范围不建页表）。一次访问：先查 TLB（全相联），命中就用它的页框和只读位。没命中逐级查页表，每级算一次访存，页目录项或页表项无效就是缺页。写只读页是写保护错（TLB 命中时也查）。缺页、写保护错不填 TLB，也不访问数据。成功时没命中的把这一项填进 TLB（满了按 lru 换出最久没用的，按 fifo 换出最早装入的），页表项置访问位，写操作再置修改位（直接记在页表项上，不另算访存），然后访问数据一次，算一次访存。`flush` 清空 TLB，不算访问。关闭 TLB 时命中和缺失均不累计。命中只读项而触发写保护仍更新该 TLB 项的最近使用时间。 |
 | 页面置换 | 开始时各帧都空。缺页时有空帧就装进编号最小的空帧，不换出。fifo 换出最早装入的。lru 换出最久没被引用的。opt 换出下一次引用最远的（再也不用的算无穷远），并列时换出最早装入的。clock 每帧一个引用位，装入和命中都置 1，指针从帧 0 开始、装满之前不动。缺页且没有空帧时，指针所指帧的引用位是 1 就清 0、指针前进一格，直到遇到引用位是 0 的帧，换出它、装入新页（引用位 1），指针再前进一格。 |
-| 文件系统 | inode 和数据块都从 0 编号，分配取编号最小的空闲项。根目录是 inode 0，占数据块 0。目录块按格存目录项（名字、inode 号），新目录第一块的前两格是 `.` 和 `..`。加目录项放进第一个空格（按块的先后），都满了就给目录加一块（目录只用直接指针，用完报错）。删目录项只清那一格，别的不挪。目录的大小记目录项个数（含 `.`、`..`），文件的大小记块数。文件的链接数是指向它的目录项个数，目录的链接数是 2 加子目录个数。`write` 往后追加：先用直接指针，用完了才用间接块（第一次用到时先分配间接块，再分配数据块）。查完路径就检查会不会超出上限，要往已有的间接块里加指针时先读它，再读数据位图检查空闲块够不够，不够就失败。新建文件、目录时先分配 inode，再分配块。`rm` 只删文件，链接数减到 0 才释放 inode 和它的块（有间接块要先读间接块）。`rmdir` 先读要删的目录的块，只剩 `.`、`..` 才删。不能给目录建硬链接。读写次数：一个操作里每样东西（inode 位图、数据位图、某个 inode、某个数据块）最多读一次、最多写一次，刚分配的不用先读。读按用到的先后：查路径从 inode 0 开始，每一级读目录的 inode、按顺序读它的块直到找到名字（要新建名字时把父目录的块全读完，确认没有重名并找空格），再读下一级的 inode。要分配 inode 时读 inode 位图，要分配或释放块时读数据位图。`read` 依次读直接块、间接块、间接块指着的块。写都放在操作最后，顺序是 inode 位图、数据位图、数据块（编号从小到大）、inode（编号从小到大）。失败的操作照样做完失败前的读，一次都不写，状态不变。不缓存，不记访问时间。同一次创建需要扩展父目录且新建子目录时，先分配父目录的新块。read 读普通文件。回收块只改位图，无须擦写原内容。 |
+| 文件系统 | inode 和数据块都从 0 编号，分配取编号最小的空闲项。根目录是 inode 0，占数据块 0。目录块按格存目录项（名字、inode 号），新目录第一块的前两格是 `.` 和 `..`。加目录项放进第一个空格（按块的先后），都满了就给目录加一块（目录只用直接指针，用完报错）。删目录项只清那一格，别的不挪。目录的大小记目录项个数（含 `.`、`..`），文件的大小记块数。文件的链接数是指向它的目录项个数，目录的链接数是 2 加子目录个数。`write` 往后追加：先用直接指针，用完了才用间接块（第一次用到时先分配间接块，再分配数据块）。查完路径就检查会不会超出上限，要往已有的间接块里加指针时先读它，再读数据位图检查空闲块够不够，不够就失败。添加目录项时先检查父目录。各块都满且直接指针已用完，就在读取 inode 位图前失败。父目录有位置或能扩展时，创建文件、目录才先分配 inode，再分配块。`rm` 只删文件，链接数减到 0 才释放 inode 和它的块（有间接块要先读间接块）。`rmdir` 按指针顺序读取目标目录的块，首个含有 `.`、`..` 以外目录项的块就使操作失败，后续块不读。所有块都查完且只剩 `.`、`..` 才删除。不能给目录建硬链接。读写次数：一个操作里每样东西（inode 位图、数据位图、某个 inode、某个数据块）最多读一次、最多写一次，刚分配的不用先读。读按用到的先后：查路径从 inode 0 开始，每一级读目录的 inode、按顺序读它的块直到找到名字（要新建名字时把父目录的块全读完，确认没有重名并找空格），再读下一级的 inode。要分配 inode 时读 inode 位图，要分配或释放块时读数据位图。`read` 依次读直接块、间接块、间接块指着的块。写都放在操作最后，顺序是 inode 位图、数据位图、数据块（编号从小到大）、inode（编号从小到大）。失败的操作照样做完失败前的读，一次都不写，状态不变。不缓存，不记访问时间。同一次创建需要扩展父目录且新建子目录时，先分配父目录的新块。`read`、`write`、`rm` 遇到目录、`ln` 的源是目录、`rmdir` 遇到普通文件，都在读到目标 inode 时失败，目标的数据块读取次数为 0。`ln` 先查源，源类型不对就不查目的路径。查到需要操作根目录本身的路径 `/` 时，读 inode 0 即失败。回收块只改位图，无须擦写原内容。 |
 | 随机 | 带随机的组件都写 `seed`，用 mulberry32（和星图布局同一种）。 |
 | 速度 | 内容不写速度，读者用菜单调节。1× 时每秒几步：bits 2，float32 1，cpu 2 条指令（微步 4），cache 2 次访问，pipeline 1 个周期，memory 2，tree 1（选「一个操作」时两者都是每秒 1 个操作），sort 4，grid-search 20 次扩展，graph 2，logic-circuit 2 拍，scheduler 2 拍，threads 2 条指令，page-table 1 次访问，page-replacement 2 个引用，filesystem 2 次读写或 1 个操作，dp-table 4 格。 |
 
